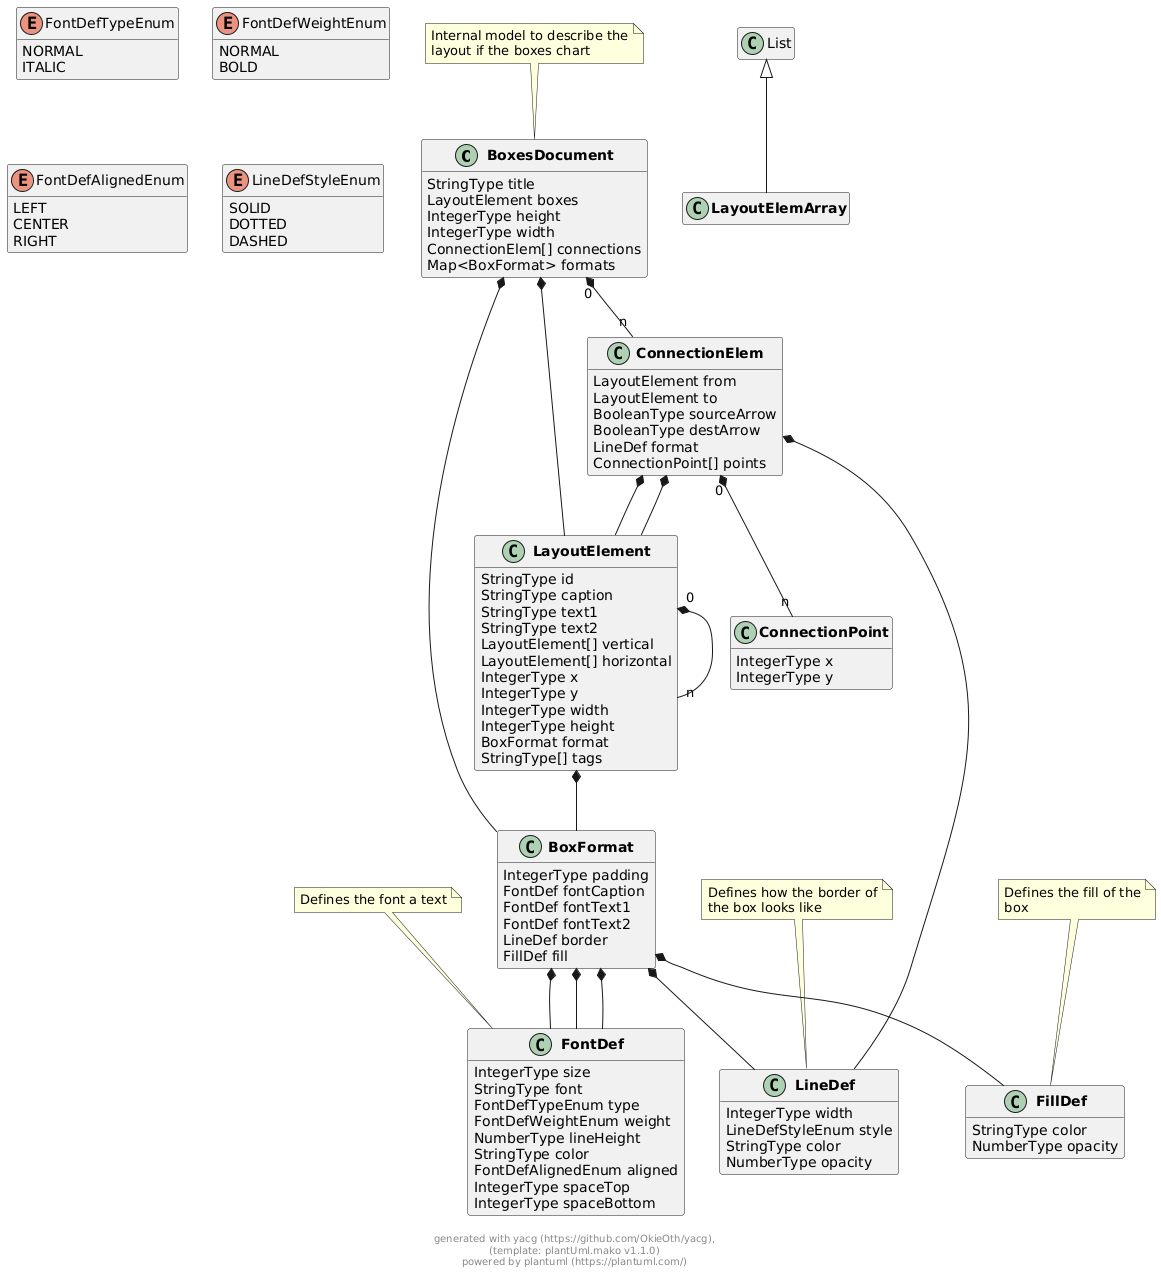
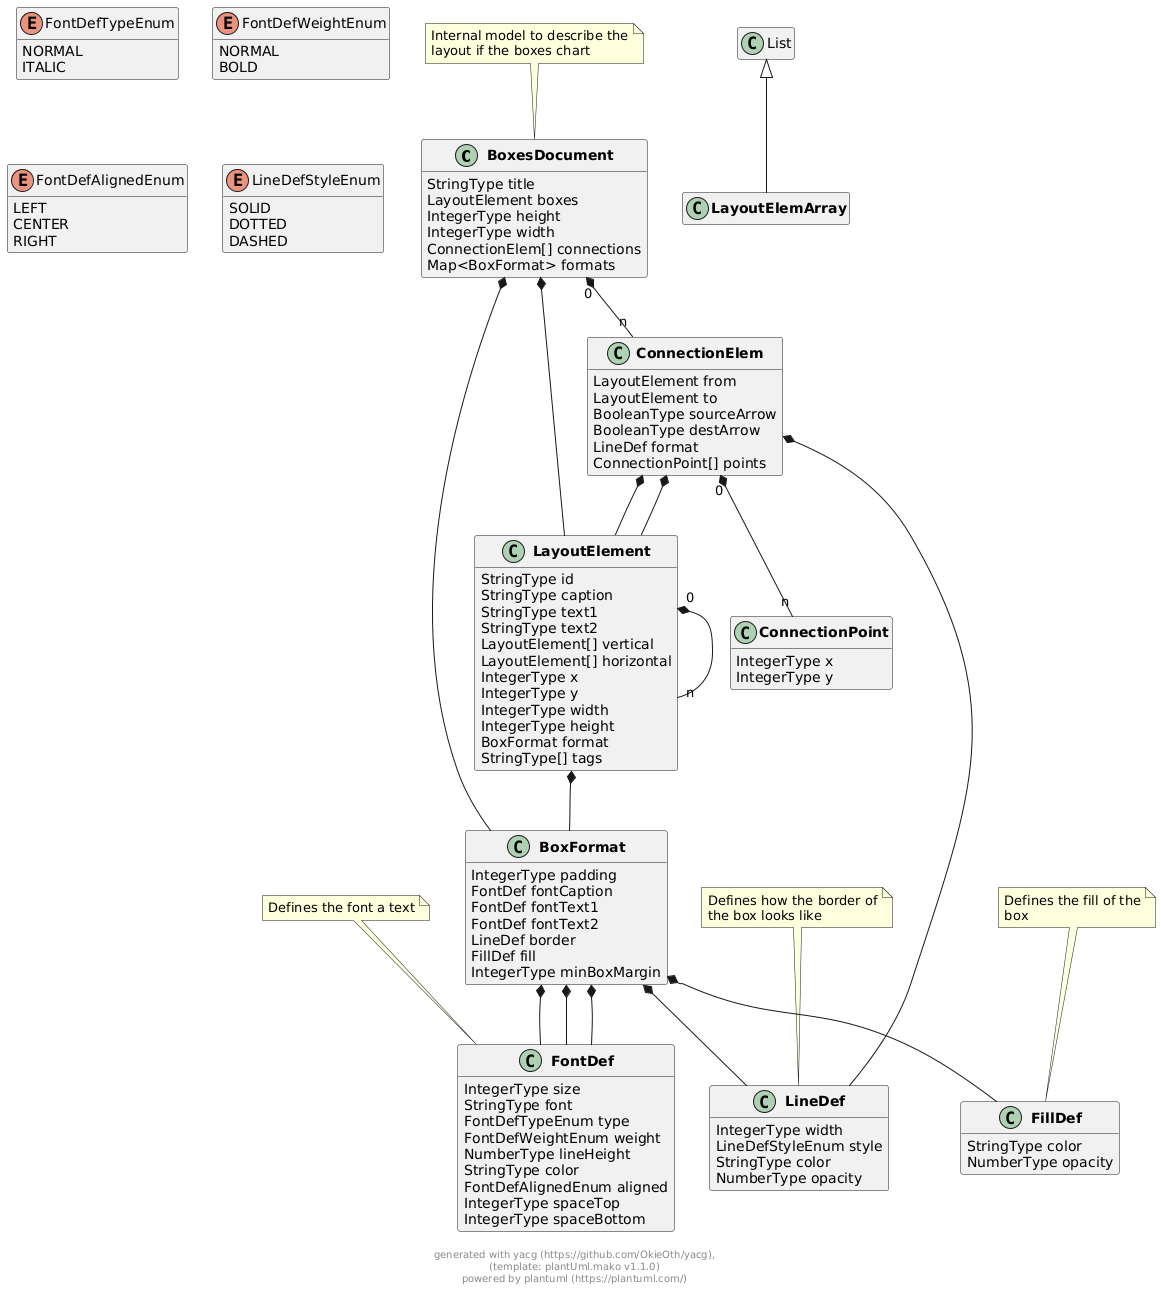
wip: InitDimensions

diff --git a/pkg/types/boxesdocfactoryfuncs.go b/pkg/types/boxesdocfactoryfuncs.go
@@ -7,12 +7,61 @@ type TextDimensionCalculator interface {
 }
 
 func (l *LayoutElement) InitDimensions(c TextDimensionCalculator) {
-	// TODO
-	// l.Width, l.Height = td(l.Caption)
-	// for _, v := range l.Vertical {
-	// 	v.InitDimensions(td)
-	// }
-	// for _, h := range l.Horizontal {
-	// 	h.InitDimensions(td)
-	// }
+	initVertical := func() {
+		if len(l.Vertical) > 0 {
+			var h, w int32
+			for _, sub := range l.Vertical {
+				if h > 0 {
+					h += l.Format.MinBoxMargin
+				}
+				sub.InitDimensions(c)
+				h += sub.Height
+				if sub.Width > w {
+					w = sub.Width
+				}
+			}
+			l.Height += h
+			if w > l.Width {
+				l.Width = w
+			}
+		}
+	}
+	initHorizontal := func() {
+		if len(l.Horizontal) > 0 {
+			var h, w int32
+			for _, sub := range l.Horizontal {
+				if w > 0 {
+					w += l.Format.MinBoxMargin
+				}
+				sub.InitDimensions(c)
+				w += sub.Width
+				if sub.Height > h {
+					h = sub.Height
+				}
+			}
+			l.Height += h
+			if l.Width < w {
+				l.Width = w
+			}
+		}
+	}
+
+	var cW, cH, t1W, t1H, t2W, t2H int32
+	l.Height = (2 * l.Format.Padding)
+	if l.Caption != "" {
+		cW, cH = c.CaptionDimensions(l.Caption)
+		l.Height += cH + l.Format.FontCaption.SpaceTop + l.Format.FontCaption.SpaceBottom
+	}
+	if l.Text1 != "" {
+		t1W, t1H = c.Text1Dimensions(l.Text1)
+		l.Height += t1H + l.Format.Padding + l.Format.FontText1.SpaceTop + l.Format.FontText1.SpaceBottom
+	}
+	if l.Text2 != "" {
+		t2W, t2H = c.Text2Dimensions(l.Text2)
+		l.Height += t2H + l.Format.Padding + l.Format.FontText2.SpaceTop + l.Format.FontText2.SpaceBottom
+	}
+	l.Width = max(cW, max(t1W, t2W)) + (2 * l.Format.Padding)
+
+	initVertical()
+	initHorizontal()
 }

diff --git a/pkg/types/boxesdocfactoryfuncs_test.go b/pkg/types/boxesdocfactoryfuncs_test.go
@@ -2,6 +2,9 @@ package types_test
 
 import (
 	"testing"
+
+	"github.com/okieoth/draw.chart.things/pkg/types"
+	"github.com/stretchr/testify/assert"
 )
 
 type DummyDimensionCalculator struct {
@@ -36,6 +39,45 @@ func NewDummyDimensionCalculator(captionWidth, captionHeight, text1Width, text1H
 	}
 }
 
+// func tested types.InitDimensions
 func TestInitDimensions(t *testing.T) {
-	// TODO
+	tests := []struct {
+		layout         types.Layout
+		expectedHeight int32
+		expectedWidth  int32
+	}{
+		{
+			layout: types.Layout{
+				Caption: "test1",
+			},
+			expectedHeight: 60,
+			expectedWidth:  110,
+		},
+		{
+			layout: types.Layout{
+				Caption: "test2",
+				Text1:   "test2-text1",
+			},
+			expectedHeight: 75,
+			expectedWidth:  130,
+		},
+		{
+			layout: types.Layout{
+				Caption: "test3",
+				Text1:   "test3-text1",
+				Text2:   "test3-text2",
+			},
+			expectedHeight: 90,
+			expectedWidth:  130,
+		},
+	}
+
+	dc := NewDummyDimensionCalculator(100, 50, 120, 10, 80, 10)
+	emptyFormats := map[string]types.BoxFormat{}
+	for _, test := range tests {
+		le := types.ExpInitLayoutElement(&test.layout, emptyFormats)
+		le.InitDimensions(dc)
+		assert.Equal(t, test.expectedHeight, le.Height)
+		assert.Equal(t, test.expectedWidth, le.Width)
+	}
 }

diff --git a/pkg/types/boxesdoc.go b/pkg/types/boxesdoc.go
@@ -137,6 +137,9 @@ type BoxFormat struct {
     Border *LineDef  `yaml:"border,omitempty"`
 
     Fill *FillDef  `yaml:"fill,omitempty"`
+
+    // Minimum margin between boxes
+    MinBoxMargin int32  `yaml:"minBoxMargin"`
 }
 
 
